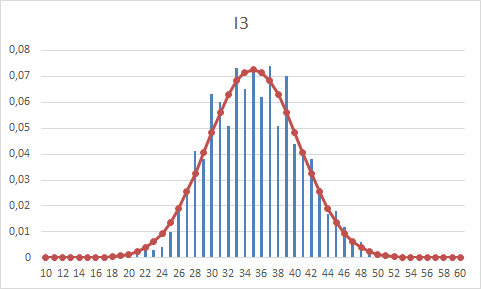
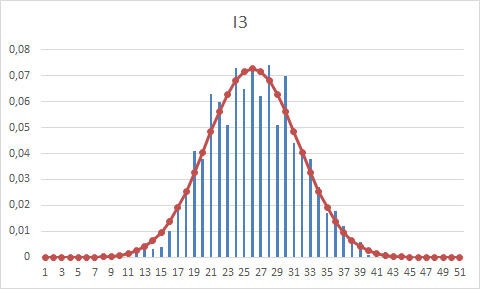
i3 re

diff --git a/labmat3/lab2.html b/labmat3/lab2.html
@@ -15,11 +15,18 @@ dodatkowe obliczenia w tabeli pomocniczej (metodą wstępującą) <br>
 
 <br><img src="I32.png">
 
+<br><br>
+
+wykres porównawczy <br>
+
+<br><img src="I3.png">
+
+
 <h3> Odpowiedź J.1</h3> miary rozkładu<br>
 
 <br><img src="J1.png">
 
-<h3> Odpowiedź J.2</h3> porównanie z rozkładem standardowym<br>
+<h3> Odpowiedź J.2</h3> porównanie z rozkładem normalnym N(70/2 , 5*sqrt(7/6))<br>
 
 <br><img src="J2.png">
 
